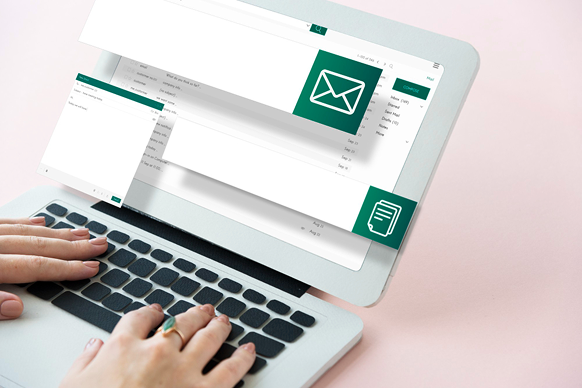
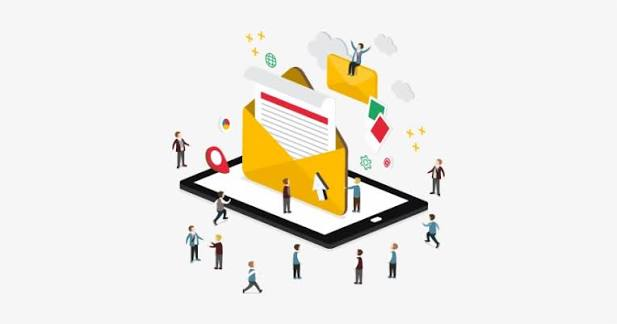
added ai chat bot

diff --git a/Client/src/pages/AiChatBox.jsx b/Client/src/pages/AiChatBox.jsx
@@ -1,0 +1,109 @@
+import { useEffect, useRef, useState } from "react";
+import { SendHorizonal, Sparkles, Loader2 } from "lucide-react";
+import { useDispatch, useSelector } from "react-redux";
+import api from "../api/axios";
+import { addAiMessage } from "../features/aiChat/aiChatSlice";
+import toast from "react-hot-toast";
+
+const AiChatBox = () => {
+  const messages = useSelector((state) => state.aiChat.messages);
+  const dispatch = useDispatch();
+
+  const [text, setText] = useState("");
+  const [loading, setLoading] = useState(false);
+  const messageEndRef = useRef(null);
+
+  const sendMessage = async () => {
+    try {
+      if (!text.trim()) return;
+
+      const userMessage = { role: "user", content: text.trim() };
+      dispatch(addAiMessage(userMessage));
+      setText("");
+      setLoading(true);
+
+      const conversationHistory = [...messages, userMessage];
+
+      const { data } = await api.post("/api/chat", {
+        messages: conversationHistory.map(m => ({ role: m.role, content: m.content }))
+      });
+
+      if (data.success) {
+        dispatch(addAiMessage({ role: "assistant", content: data.reply }));
+      } else {
+        throw new Error(data.message);
+      }
+    } catch (error) {
+      toast.error(error.message || "Failed to fetch AI response");
+    } finally {
+      setLoading(false);
+    }
+  };
+
+  useEffect(() => {
+    messageEndRef.current?.scrollIntoView({ behavior: "smooth" });
+  }, [messages, loading]);
+
+  return (
+    <div className="flex flex-col h-full bg-white/40 dark:bg-white/5 border border-white/40 dark:border-white/10 shadow-xl shadow-slate-200/50 dark:shadow-black/30 backdrop-blur-xl rounded-2xl overflow-hidden transition-all duration-300">
+      {/* Header */}
+      <div className="flex items-center gap-3 px-4 py-3 md:px-10 xl:pl-8 border-b border-white/40 dark:border-white/10 bg-white/60 dark:bg-white/5 backdrop-blur-xl text-slate-900 dark:text-slate-100">
+        <div className="size-8 rounded-full shadow bg-gradient-to-r from-indigo-500 to-purple-600 flex items-center justify-center text-white">
+          <Sparkles className="size-5" />
+        </div>
+        <div>
+          <p className="font-medium">AI Assistant</p>
+          <p className="text-sm text-slate-500 dark:text-slate-400 -mt-1">@assistant</p>
+        </div>
+      </div>
+      {/* Messages container */}
+      <div className="p-5 md:px-10 h-full overflow-y-scroll">
+        <div className="space-y-4 max-w-4xl mx-auto">
+          {messages.map((message, index) => (
+            <div
+              key={index}
+              className={`flex flex-col ${message.role === "assistant" ? "items-start" : "items-end"}`}
+            >
+              <div
+                className={`p-3 text-sm max-w-sm backdrop-blur-xl shadow-md rounded-2xl transition-all duration-200 ${message.role === "assistant" ? "bg-white/60 dark:bg-white/10 text-slate-800 dark:text-slate-200 rounded-bl-none border border-white/40 dark:border-white/10" : "bg-indigo-500/90 dark:bg-indigo-600/90 text-white rounded-br-none border border-indigo-400/30"}`}
+              >
+                <p className="whitespace-pre-wrap">{message.content}</p>
+              </div>
+            </div>
+          ))}
+          {loading && (
+            <div className="flex flex-col items-start">
+              <div className="p-3 text-sm max-w-sm backdrop-blur-xl shadow-md rounded-2xl transition-all duration-200 bg-white/60 dark:bg-white/10 text-slate-800 dark:text-slate-200 rounded-bl-none border border-white/40 dark:border-white/10 flex items-center gap-2">
+                <Loader2 className="size-4 animate-spin" />
+                Thinking...
+              </div>
+            </div>
+          )}
+          <div ref={messageEndRef} />
+        </div>
+      </div>
+      <div className="px-4">
+        <div className="flex items-center gap-3 pl-5 p-1.5 bg-white/60 dark:bg-white/5 border border-white/40 dark:border-white/10 backdrop-blur-xl w-full max-w-xl mx-auto shadow-xl rounded-2xl mb-5 transition-all duration-300">
+          <input
+            type="text"
+            className="text-slate-800 dark:text-slate-200 outline-none flex-1 bg-transparent placeholder:text-slate-500 dark:placeholder:text-slate-400"
+            placeholder="Ask anything..."
+            value={text}
+            onChange={(e) => setText(e.target.value)}
+            onKeyDown={(e) => e.key == "Enter" && !loading && sendMessage()}
+            disabled={loading}
+          />
+          <button
+            onClick={sendMessage}
+            disabled={loading}
+            className="bg-indigo-500 hover:bg-indigo-600 disabled:opacity-50 text-white dark:bg-white dark:text-slate-900 shadow-md active:scale-95 cursor-pointer p-2 rounded-xl transition-all duration-200"
+          >
+            <SendHorizonal size={18} />
+          </button>
+        </div>
+      </div>
+    </div>
+  );
+};
+
+export default AiChatBox;

diff --git a/server/routes/chatRoutes.js b/server/routes/chatRoutes.js
@@ -1,0 +1,36 @@
+import express from "express";
+import Groq from "groq-sdk";
+
+const router = express.Router();
+
+router.post("/", async (req, res) => {
+  try {
+    const { messages } = req.body;
+
+    if (!messages || !Array.isArray(messages)) {
+      return res.status(400).json({ success: false, message: "Invalid messages format" });
+    }
+
+    const groq = new Groq({ apiKey: process.env.GROQ_API_KEY });
+
+    const chatCompletion = await groq.chat.completions.create({
+      messages: [
+        {
+          role: "system",
+          content: "You are a helpful, friendly, and knowledgeable AI assistant integrated into a social media application. Provide concise and helpful answers.",
+        },
+        ...messages,
+      ],
+      model: "llama-3.3-70b-versatile",
+    });
+
+    const reply = chatCompletion.choices[0]?.message?.content || "Sorry, I couldn't process that.";
+
+    res.status(200).json({ success: true, reply });
+  } catch (error) {
+    console.error("Groq API Error:", error);
+    res.status(500).json({ success: false, message: error.message || "Failed to fetch response from AI" });
+  }
+});
+
+export default router;

diff --git a/Client/src/features/aiChat/aiChatSlice.js b/Client/src/features/aiChat/aiChatSlice.js
@@ -1,0 +1,27 @@
+import { createSlice } from "@reduxjs/toolkit";
+
+const initialState = {
+  messages: [
+    {
+      role: "assistant",
+      content: "Hello! I am your AI assistant. Ask questions, generate ideas, get explanations, and receive instant help!",
+    },
+  ],
+};
+
+const aiChatSlice = createSlice({
+  name: "aiChat",
+  initialState,
+  reducers: {
+    addAiMessage: (state, action) => {
+      state.messages.push(action.payload);
+    },
+    resetAiChat: (state) => {
+      state.messages = initialState.messages;
+    },
+  },
+});
+
+export const { addAiMessage, resetAiChat } = aiChatSlice.actions;
+
+export default aiChatSlice.reducer;

diff --git a/Client/src/pages/Messages.jsx b/Client/src/pages/Messages.jsx
@@ -1,5 +1,5 @@
 import { useNavigate } from "react-router-dom";
-import { MessageSquare, EyeIcon } from "lucide-react";
+import { MessageSquare, EyeIcon, Sparkles } from "lucide-react";
 import { useSelector } from "react-redux";
 
 const Messages = () => {
@@ -14,6 +14,26 @@ const Messages = () => {
           <p className="text-slate-600 dark:text-slate-400">Talk to your friends and family</p>
         </div>
         <div className="flex flex-col gap-3">
+          {/* AI Assistant Card */}
+          <div className="max-w-xl flex flex-wrap gap-5 p-6 bg-white/60 dark:bg-white/5 border border-white/40 dark:border-white/10 shadow-xl shadow-slate-200/50 dark:shadow-black/30 backdrop-blur-xl rounded-2xl transition-all duration-300">
+            <div className="rounded-full size-12 mx-auto shadow bg-gradient-to-r from-indigo-500 to-purple-600 flex items-center justify-center text-white">
+              <Sparkles className="w-6 h-6" />
+            </div>
+            <div className="flex-1">
+              <p className="font-medium text-slate-900 dark:text-slate-100">AI Assistant</p>
+              <p className="text-slate-500 dark:text-slate-400">@assistant</p>
+              <p className="text-sm text-slate-600 dark:text-slate-300">Ask questions, generate ideas, get explanations, and receive instant help.</p>
+            </div>
+            <div className="flex flex-col gap-2 mt-4 justify-center">
+              <button
+                className="size-10 flex items-center justify-center text-sm rounded-xl bg-white/60 dark:bg-white/10 hover:brightness-110 text-slate-800 dark:text-slate-200 active:scale-95 transition cursor-pointer shadow-sm"
+                onClick={() => navigate(`/messages/assistant`)}
+              >
+                <MessageSquare className="w-4 h-4" />
+              </button>
+            </div>
+          </div>
+          {/* User Connections */}
           {connections.map((user) => (
             <div
               key={user._id}

diff --git a/Client/src/App.jsx b/Client/src/App.jsx
@@ -3,6 +3,7 @@ import Login from "./pages/Login";
 import Feed from "./pages/Feed";
 import Messages from "./pages/Messages";
 import ChatBox from "./pages/ChatBox";
+import AiChatBox from "./pages/AiChatBox";
 import Connections from "./pages/Connections";
 import Discover from "./pages/Discover";
 import Profile from "./pages/Profile";
@@ -79,6 +80,7 @@ const App = () => {
         <Route path="/" element={!user ? <Login /> : <Layout />}>
           <Route index element={<Feed />} />
           <Route path="messages" element={<Messages />} />
+          <Route path="messages/assistant" element={<AiChatBox />} />
           <Route path="messages/:userId" element={<ChatBox />} />
           <Route path="connections" element={<Connections />} />
           <Route path="discover" element={<Discover />} />

diff --git a/Client/src/app/store.js b/Client/src/app/store.js
@@ -2,11 +2,13 @@ import { configureStore } from "@reduxjs/toolkit";
 import userReducer from "../features/user/userSlice.js";
 import connectionsReducer from "../features/connections/connectionsSlice.js";
 import messagesReducer from "../features/messages/messagesSlice.js";
+import aiChatReducer from "../features/aiChat/aiChatSlice.js";
 
 export const store = configureStore({
   reducer: {
     user: userReducer,
     connections: connectionsReducer,
     messages: messagesReducer,
+    aiChat: aiChatReducer,
   },
 });

diff --git a/server/server.js b/server/server.js
@@ -9,6 +9,7 @@ import { clerkMiddleware } from "@clerk/express";
 import postRouter from "./routes/postRoutes.js";
 import storyRouter from "./routes/storyRoutes.js";
 import messageRouter from "./routes/messageRoutes.js";
+import chatRouter from "./routes/chatRoutes.js";
 
 const app = express();
 const PORT = process.env.PORT || 4000;
@@ -34,6 +35,7 @@ app.use("/api/user", router);
 app.use("/api/post", postRouter);
 app.use("/api/story", storyRouter);
 app.use("/api/message", messageRouter);
+app.use("/api/chat", chatRouter);
 
 app.get("/", (req, res) => {
   res.send("Hello World!");